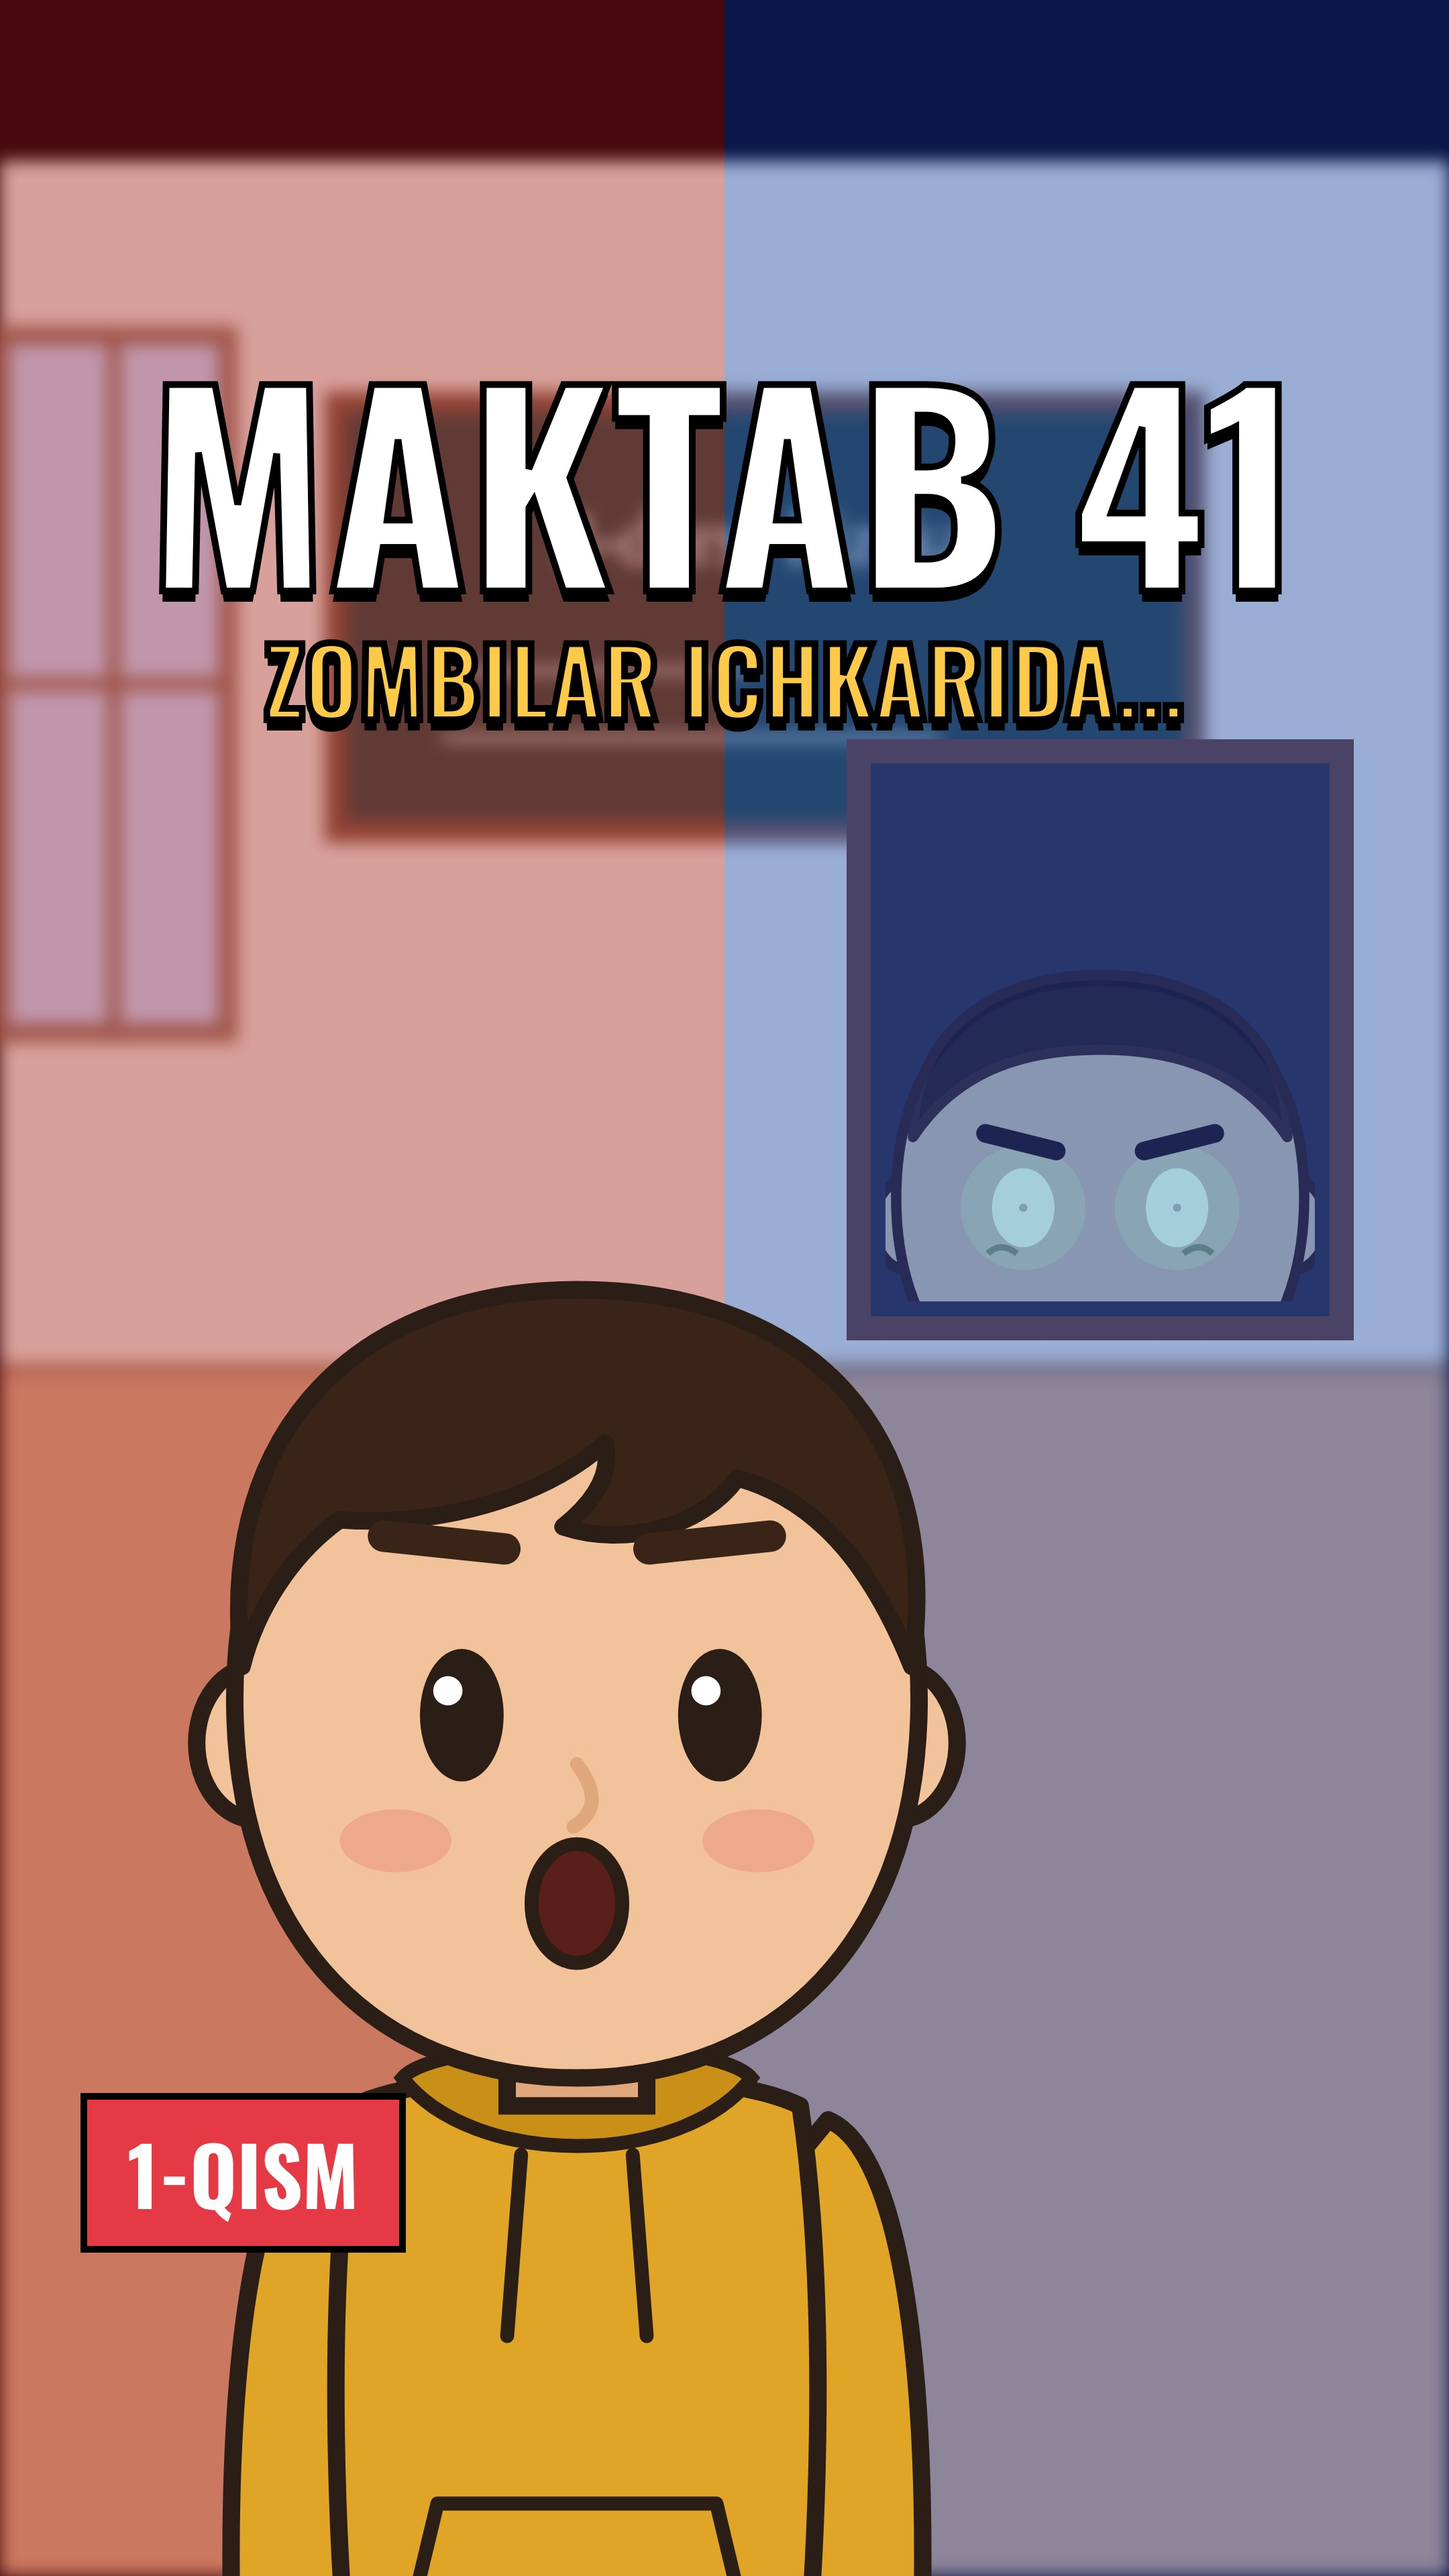
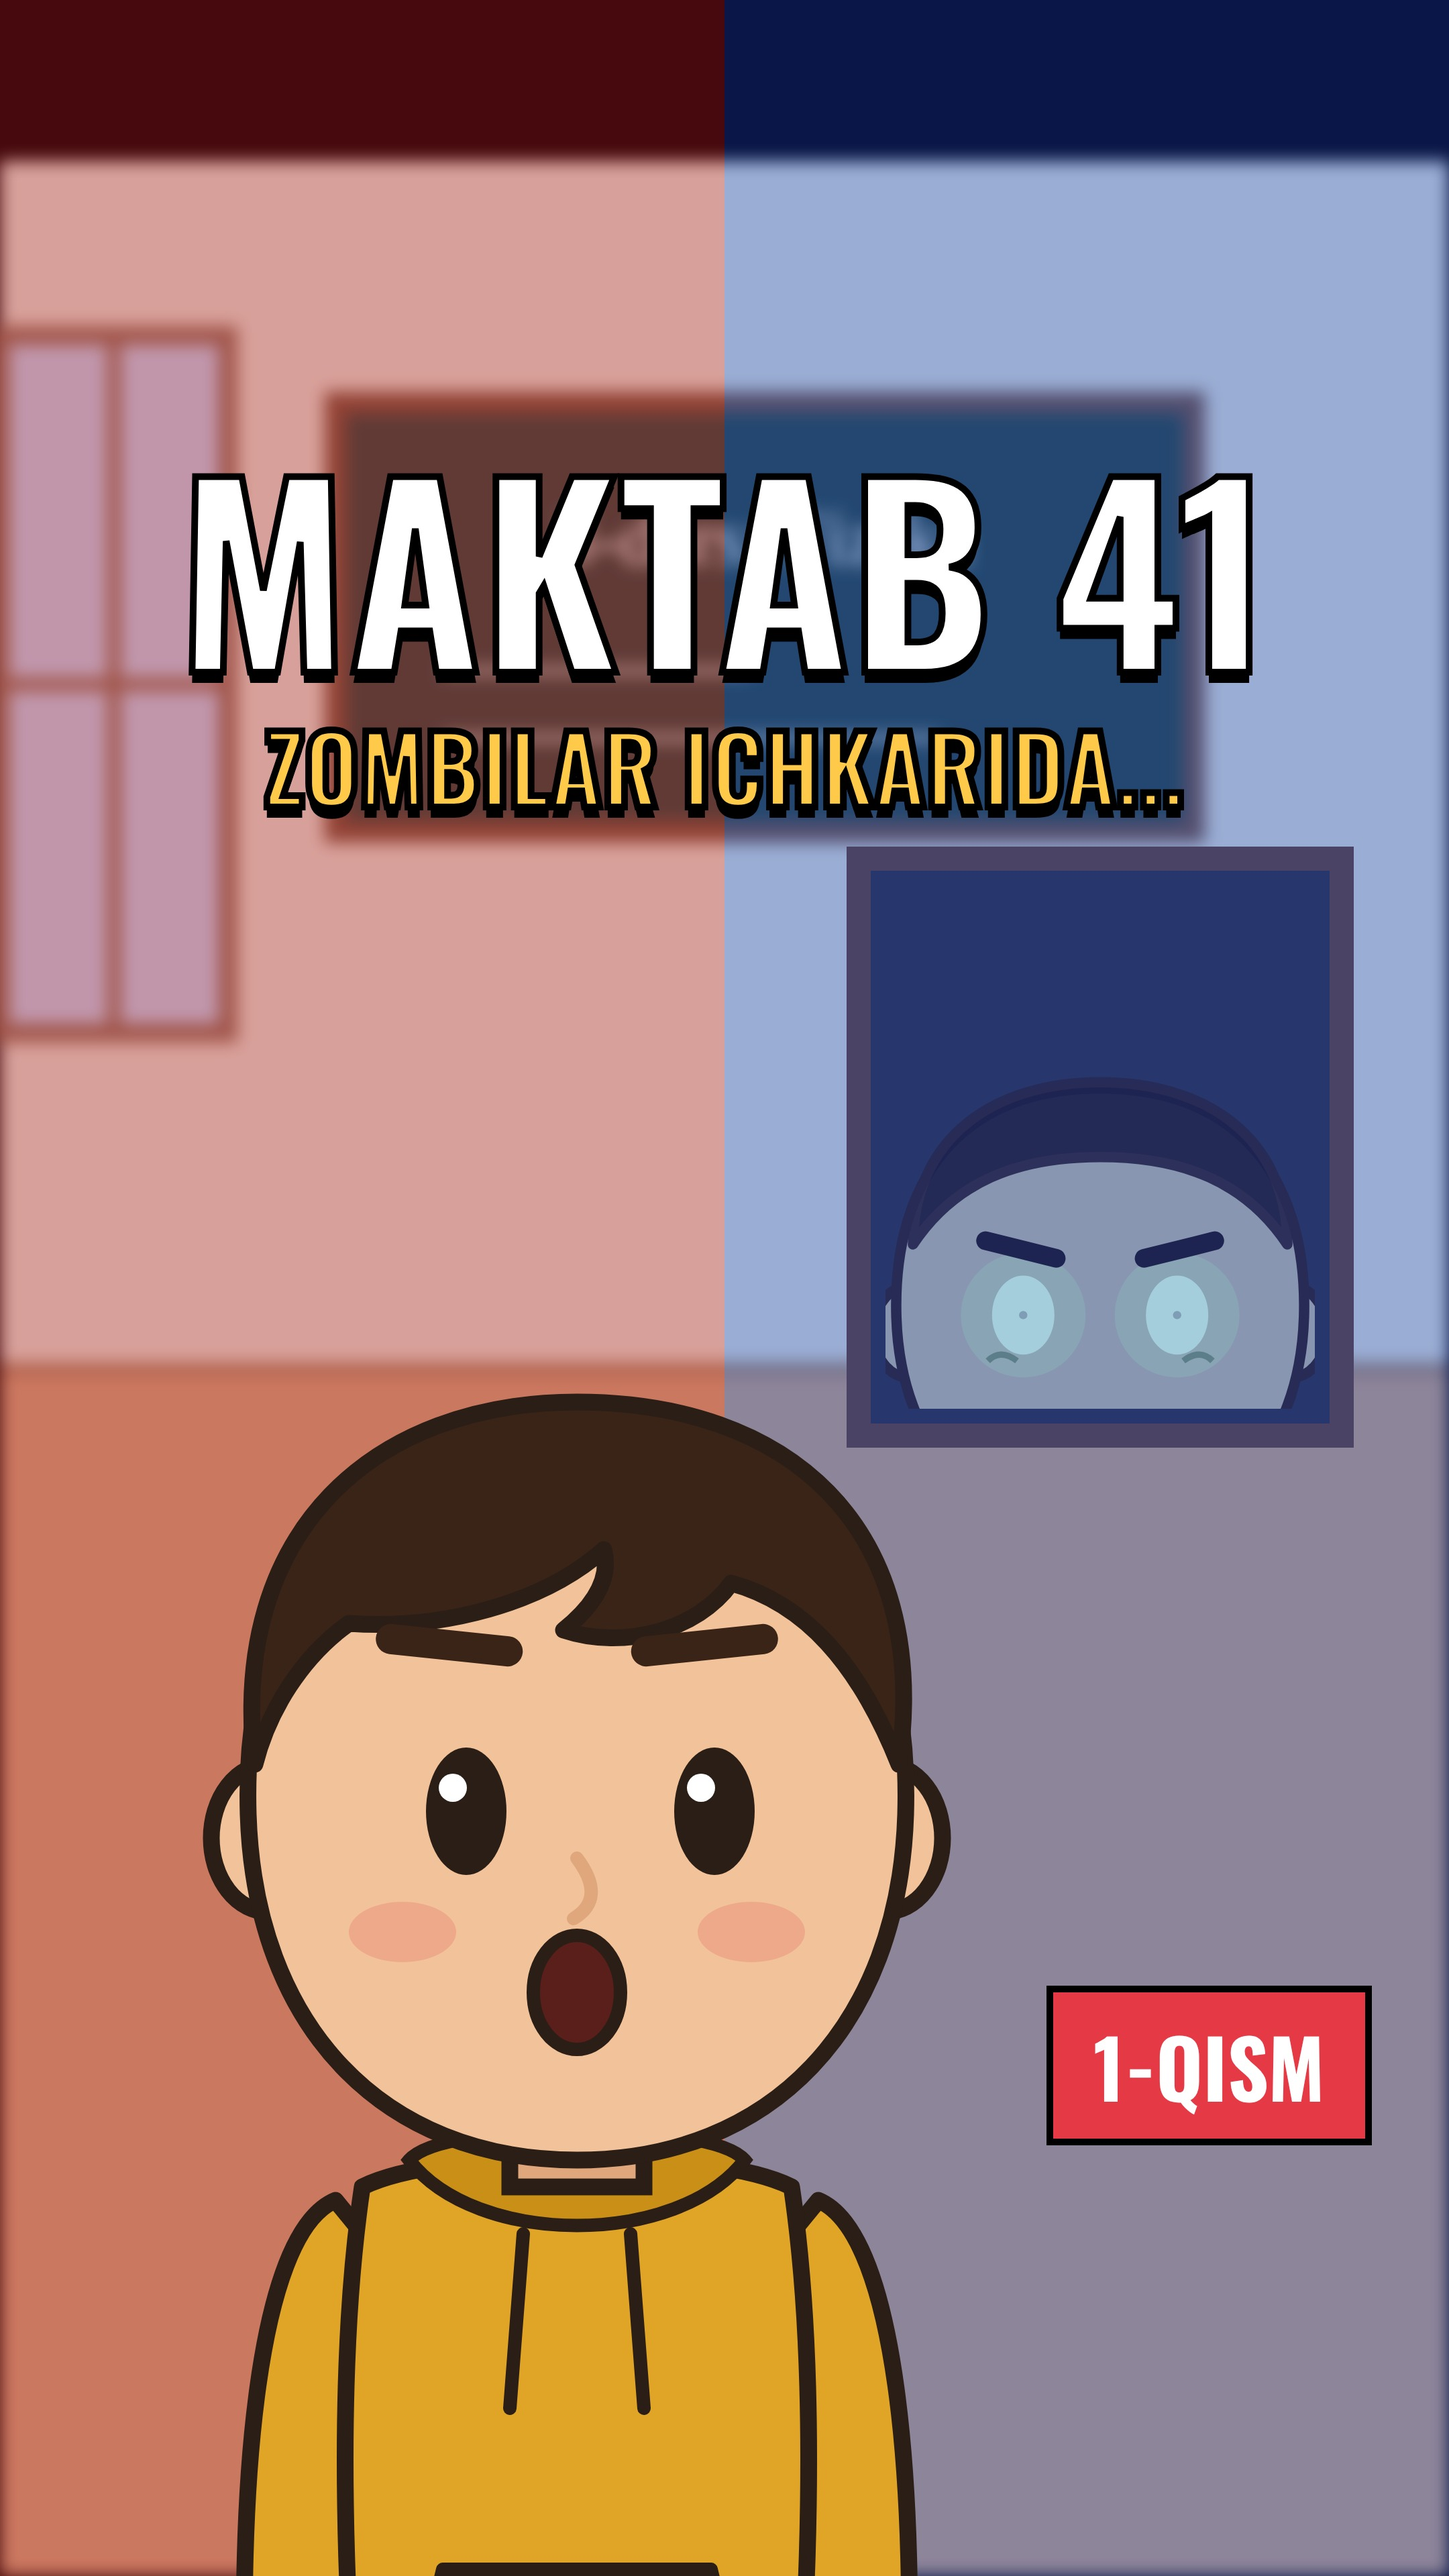
Part 1 cover A fitted to the profile-grid crop
Claude-Session: https://claude.ai/code/session_01TTDtXFX2VgNijaV9KjVb5K

Changed region(s): [[0.031, 0.4062, 0.9616, 1.0], [0.0931, 0.125, 0.9306, 0.3438], [0.7134, 0.75, 0.9616, 0.8438]]

diff --git a/video/src/zombi/ZBrand.tsx b/video/src/zombi/ZBrand.tsx
@@ -154,12 +154,12 @@ export const ZCoverV: React.FC<{v: 'a' | 'b' | 'c'}> = ({v}) => {
         {v === 'a' && (
           <g>
             <g style={{filter: 'blur(6px)'}}><Board /></g>
-            <rect x={640} y={560} width={360} height={430} fill="#2a2f36" stroke="#5a3f2a" strokeWidth={18} />
-            <clipPath id="dw"><rect x={660} y={580} width={320} height={390} /></clipPath>
-            <g clipPath="url(#dw)"><PersonAt x={820} y={1700} s={1.55} {...CAST.sardor} zombie={1} eyeGlow={1} mood="determined" shadow={false} /></g>
+            <rect x={640} y={640} width={360} height={430} fill="#2a2f36" stroke="#5a3f2a" strokeWidth={18} />
+            <clipPath id="dw"><rect x={660} y={660} width={320} height={390} /></clipPath>
+            <g clipPath="url(#dw)"><PersonAt x={820} y={1780} s={1.55} {...CAST.sardor} zombie={1} eyeGlow={1} mood="determined" shadow={false} /></g>
             <rect width={540} height={1920} fill="#ff2030" opacity={0.28} />
             <rect x={540} width={540} height={1920} fill="#2050ff" opacity={0.28} />
-            <BekAt x={430} y={2620} s={2.6} mood="surprised" lookX={0.8} shadow={false} />
+            <BekAt x={430} y={2640} s={2.5} mood="surprised" lookX={0.8} shadow={false} />
           </g>
         )}
         {v === 'b' && (
@@ -183,10 +183,10 @@ export const ZCoverV: React.FC<{v: 'a' | 'b' | 'c'}> = ({v}) => {
           </g>
         )}
       </svg>
-      {v === 'a' && <><div style={{...T, top: 260, fontSize: 190, color: '#fff'}}>MAKTAB 41</div><div style={{...T, top: 470, fontSize: 70, color: '#ffc94a'}}>ZOMBILAR ICHKARIDA...</div></>}
+      {v === 'a' && <><div style={{...T, top: 330, fontSize: 180, color: '#fff'}}>MAKTAB 41</div><div style={{...T, top: 535, fontSize: 70, color: '#ffc94a'}}>ZOMBILAR ICHKARIDA...</div></>}
       {v === 'b' && <><div style={{...T, top: 280, fontSize: 150, color: '#fff'}}>OYI...</div><div style={{...T, top: 440, fontSize: 130, color: '#ff4b4b'}}>JAVOB BER!</div><div style={{...T, top: 1540, fontSize: 64, color: '#ffc94a'}}>MAKTAB 41 · 1-QISM</div></>}
       {v === 'c' && <><div style={{...T, top: 270, fontSize: 120, color: '#fff'}}>U ENDI</div><div style={{...T, top: 400, fontSize: 150, color: '#6dff6d'}}>ODAM EMAS...</div><div style={{...T, top: 1540, fontSize: 64, color: '#ffc94a'}}>MAKTAB 41 · 1-QISM</div></>}
-      {v === 'a' && <div style={{position: 'absolute', top: 1560, left: 60, padding: '10px 30px', background: '#e63946', color: '#fff', fontFamily: 'Oswald', fontWeight: 700, fontSize: 60, border: '5px solid #000'}}>1-QISM</div>}
+      {v === 'a' && <div style={{position: 'absolute', top: 1480, left: 780, padding: '10px 30px', background: '#e63946', color: '#fff', fontFamily: 'Oswald', fontWeight: 700, fontSize: 60, border: '5px solid #000'}}>1-QISM</div>}
     </AbsoluteFill>
   );
 };
